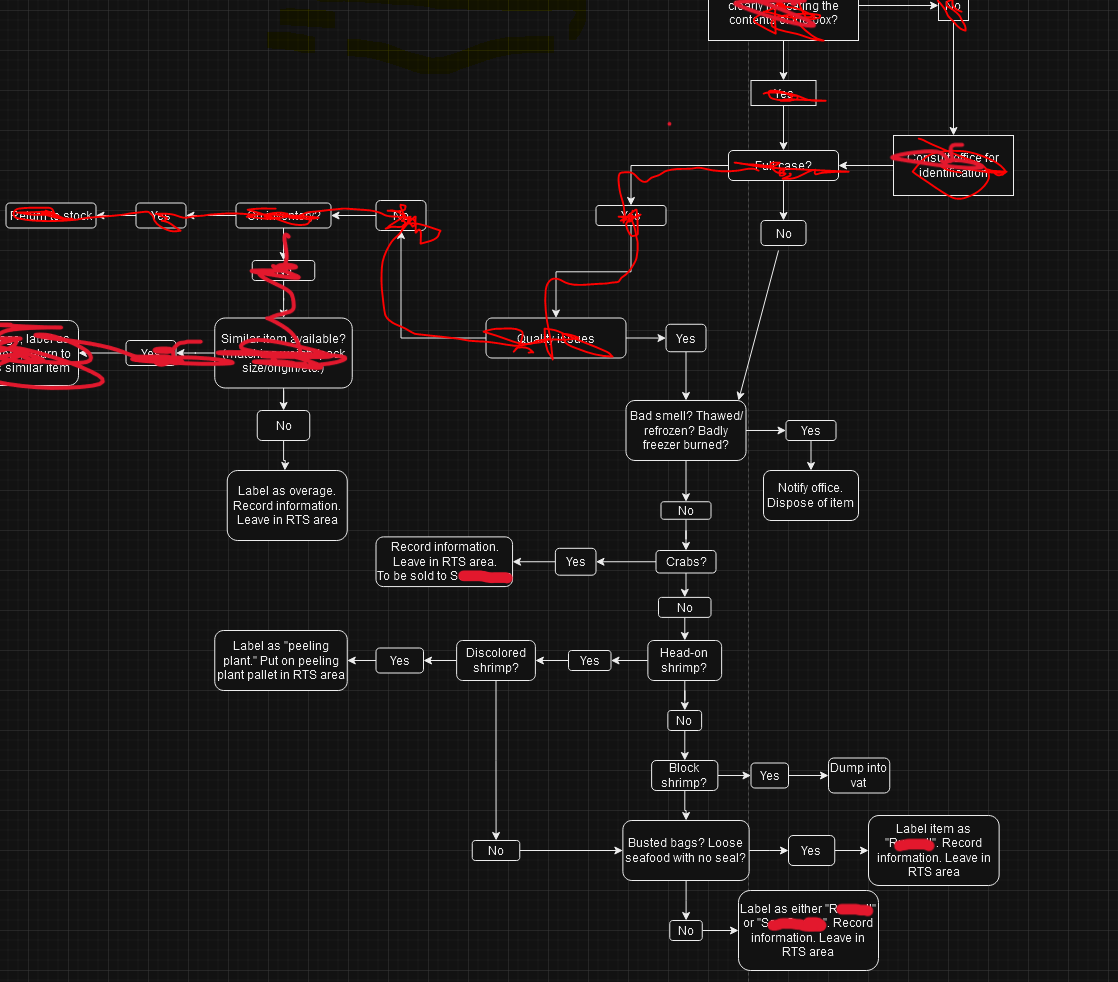
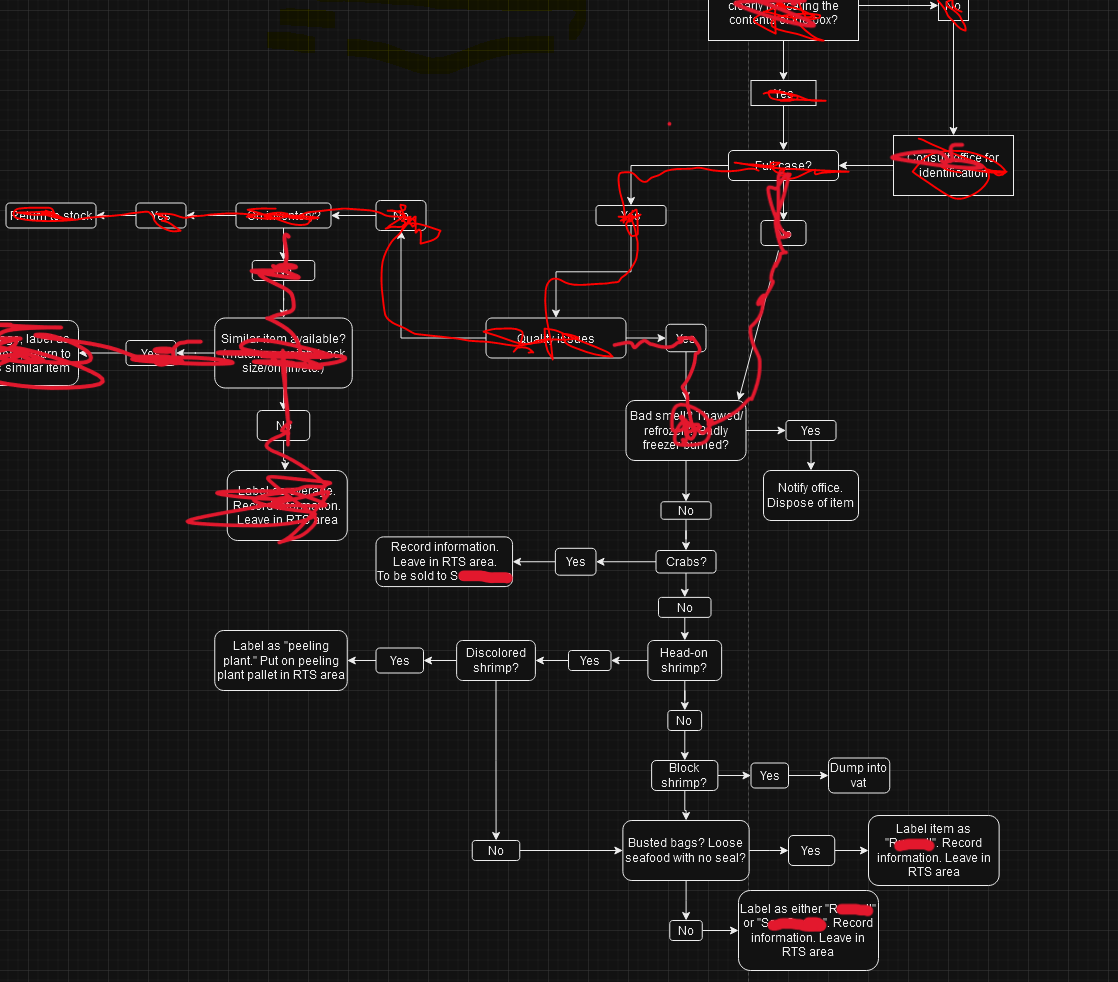
completed disposal question

Changed region(s): [[0.1521, 0.3666, 0.3041, 0.5499], [0.5474, 0.336, 0.6691, 0.4582], [0.6691, 0.1833, 0.7299, 0.3971]]

diff --git a/RTS Sorting Process Assistant.py b/RTS Sorting Process Assistant.py
@@ -76,8 +76,14 @@ Press "Enter" to begin...''')
     # NO
     clear_screen("(ITEM SORTING GUIDANCE)")
     if check_full_case() is False:
-        # move to disposal question
-        quit()
+        
+        # should the item be disposed?
+        # YES        
+        clear_screen("(ITEM SORTING GUIDANCE)")
+        if check_disposal() is True:
+            # move to disposal result
+            print("disposal result")
+        
     # YES
     else:
         
@@ -85,8 +91,14 @@ Press "Enter" to begin...''')
         # YES
         clear_screen("(ITEM SORTING GUIDANCE)")
         if check_quality_issue() is True:
-        # move to disposal question
-            quit()
+
+            # should the item be disposed?
+            # YES
+            clear_screen("(ITEM SORTING GUIDANCE)")
+            if check_disposal() is True:
+                # move to disposal result
+                print("disposal result")
+            
         # NO 
         else:
 
@@ -98,12 +110,17 @@ Press "Enter" to begin...''')
                 result_return_to_stock()
             # NO
             else:
+
                 # similar item available?
                 # YES
                 clear_screen("(ITEM SORTING GUIDANCE)")
                 if check_similar_item() is True:
                     clear_screen("(ITEM SORTING GUIDANCE)")
-                    result_identical_item_return_to_stock()                  
+                    result_identical_item_return_to_stock()    
+                # NO
+                else:
+                    clear_screen("(ITEM SORTING GUIDANCE)")
+                    result_overage()              
         
 def get_user_choice():
     while True:
@@ -199,6 +216,25 @@ Is there an identical item available?''')
     user_choice = get_user_choice()
     return user_choice
 
+def check_disposal():
+    print("DISPOSAL")
+    print('''When assessing whether an item should be disposed of, you wiil need to use your senses to make the judgement. Here are some clues that an item may need to be thrown away:
+
+- Smell. Trust your nose. While seafood often has a distinct "fishy" odor, spoiled food emits a stronger, foul smell of rot or chemicals. 
+
+- Freezer burn. Freezer burn is characterized by dry, grayish-brown spots cause by air reaching the surface of the food. Freezer burn is not harmful, but is unattractive to customers and not appealing to eat. 
+An item lightly freezer burned may be resold, but an item that is badly freezer burned cannot.
+
+- Thawed and refrozen. This is due to improper storage. Some indicators that an item may include:
+    - An item that was originally "IQF" (Individually Quick-Frozen), but has turned into a solid block
+    - Liquids or juices that have frozen and dried on the packaging or leaked onto other items
+
+Do any of these qualities apply to the item?
+''')
+    user_choice = get_user_choice()
+    return user_choice
+    
+
 def result_return_to_stock():
     print('RESULT:')
     print('''The item should be returned to stock. Print a label for the item to be scanned into a location and put the item in the location. When returning items to stock,
@@ -212,6 +248,11 @@ a case of "Brand A Swai Fillets" can be repackaged, then attached with printed l
 "Brand B Swai Fillets".
 ''')
 
+def result_overage(): ### add prompt to record information
+    print("RESULT:")
+    print('''The item is an overage. An overage is a discrepancy - a difference, between our warehouse management system inventory and our physical inventory. We physically have the item, but it is not accounted for in the system inventory. 
+Label the item as "overage" (this can be handwritten on a sticker) and put the item on an overage pallet. An overage pallet can be found on the floor within the RTS area. Once an overage pallet reaches bin height, it should be wrapped, labeled 
+as "OVERAGE" and inbounded (slotted into a bin) within the RTS area.''')
 
 
 ### MAIN PROGRAM ###
